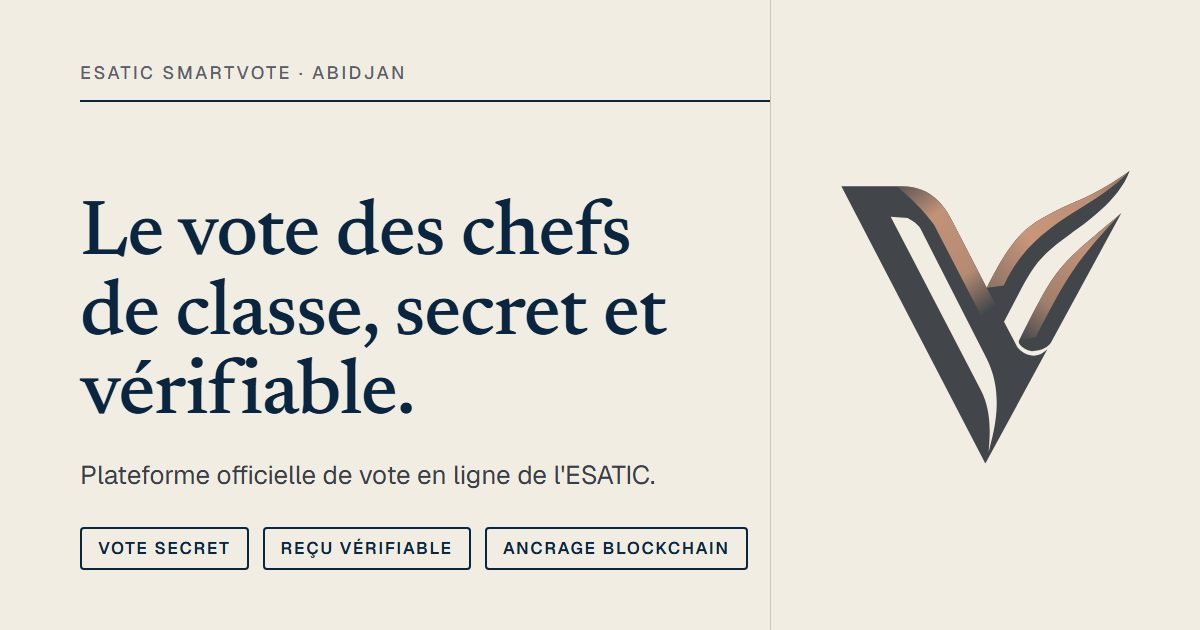
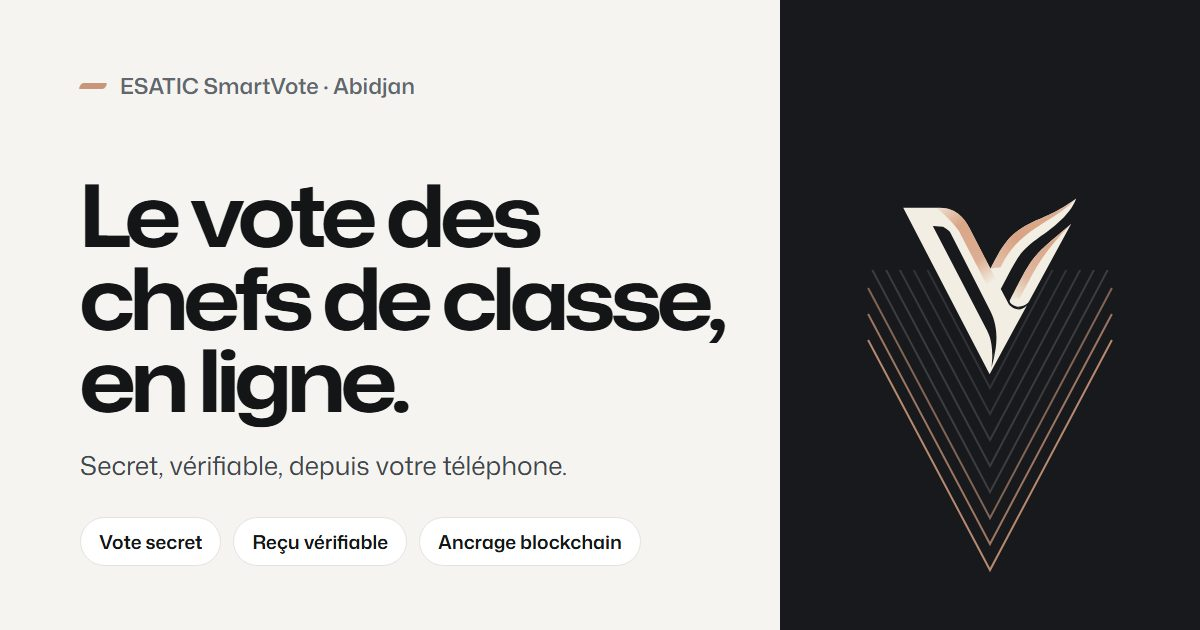
feat(brand): urne 3D, image de partage, reçu PDF et e-mails en ardoise et cuivre
- Urne 3D : couvercle ardoise, plaque cuivrée frappée du logo, bulletins
  à bandeau cuivre ; image fixe régénérée depuis la scène, fond transparent
  (elle s'affiche aussi sur le thème sombre).
- Image de partage refaite en Mona Sans, logo clair sur panneau ardoise et
  chevrons.
- Reçu PDF et bandeau des e-mails : ardoise au lieu du marine.

diff --git a/frontend/src/components/three/BallotBoxScene.tsx b/frontend/src/components/three/BallotBoxScene.tsx
@@ -45,10 +45,12 @@ import {
 import { RoundedBoxGeometry } from "three/examples/jsm/geometries/RoundedBoxGeometry.js";
 import { RoomEnvironment } from "three/examples/jsm/environments/RoomEnvironment.js";
 
+import { LOGO_HEIGHT, LOGO_SILHOUETTE, LOGO_WIDTH } from "@/components/logoGeometry";
 import { prefersReducedMotion } from "@/lib/motion";
 
-const NAVY = "#0a2540";
-const ORANGE = "#ff7a00";
+// Couleurs du logo : ardoise et cuivre.
+const SLATE = "#1f2226";
+const COPPER = "#c9967a";
 const BALLOT_COUNT = 5;
 const CYCLE = 5.2; // secondes entre deux passages d'un même bulletin
 // Instant de l'animation figé dans l'image fixe (src/assets/hero-urne-*.webp).
@@ -73,7 +75,7 @@ function restRotation(t: number) {
   return -0.35 + Math.sin(t * 0.25) * 0.05;
 }
 
-/** Bulletin : papier blanc, bandeau orange, cases à cocher dont une marquée. */
+/** Bulletin : papier blanc, bandeau cuivre, cases à cocher dont une marquée. */
 function ballotTexture(): CanvasTexture {
   const c = document.createElement("canvas");
   c.width = 256;
@@ -81,7 +83,7 @@ function ballotTexture(): CanvasTexture {
   const g = c.getContext("2d")!;
   g.fillStyle = "#ffffff";
   g.fillRect(0, 0, c.width, c.height);
-  g.fillStyle = ORANGE;
+  g.fillStyle = COPPER;
   g.fillRect(0, 0, c.width, 34);
   g.fillStyle = "#e4e4e7";
   for (let i = 0; i < 4; i++) {
@@ -93,7 +95,7 @@ function ballotTexture(): CanvasTexture {
     g.fillRect(80, y + 22, 90, 6);
   }
   // Une seule case cochée : le choix, anonyme.
-  g.strokeStyle = NAVY;
+  g.strokeStyle = SLATE;
   g.lineWidth = 7;
   g.lineCap = "round";
   g.beginPath();
@@ -113,11 +115,30 @@ function shadowTexture(): CanvasTexture {
   c.width = c.height = 128;
   const g = c.getContext("2d")!;
   const grad = g.createRadialGradient(64, 64, 4, 64, 64, 64);
-  grad.addColorStop(0, "rgba(10,37,64,0.35)");
-  grad.addColorStop(1, "rgba(10,37,64,0)");
+  grad.addColorStop(0, "rgba(19,21,23,0.32)");
+  grad.addColorStop(1, "rgba(19,21,23,0)");
   g.fillStyle = grad;
   g.fillRect(0, 0, 128, 128);
   return new CanvasTexture(c);
+}
+
+/** Plaque frontale : le V du logo, en ardoise sur cuivre. */
+function plateTexture(): CanvasTexture {
+  const c = document.createElement("canvas");
+  c.width = 512;
+  c.height = 194;
+  const g = c.getContext("2d")!;
+  g.fillStyle = COPPER;
+  g.fillRect(0, 0, c.width, c.height);
+  const scale = (c.height * 0.62) / LOGO_HEIGHT;
+  g.translate((c.width - LOGO_WIDTH * scale) / 2, (c.height - LOGO_HEIGHT * scale) / 2);
+  g.scale(scale, scale);
+  g.fillStyle = SLATE;
+  g.fill(new Path2D(LOGO_SILHOUETTE), "evenodd");
+  const t = new CanvasTexture(c);
+  t.colorSpace = SRGBColorSpace;
+  t.anisotropy = 4;
+  return t;
 }
 
 export default function BallotBoxScene({
@@ -167,12 +188,12 @@ export default function BallotBoxScene({
     const rig = new Group();
     scene.add(rig);
 
-    // Urne : parois de verre, couvercle marine percé d'une fente.
+    // Urne : parois de verre, couvercle ardoise percé d'une fente.
     const W = 2.4, H = 1.9, D = 1.7;
     const glass = new Mesh(
       new RoundedBoxGeometry(W, H, D, 4, 0.12),
       new MeshPhysicalMaterial({
-        color: new Color("#f4f8ff"),
+        color: new Color("#f6f5f2"),
         roughness: 0.04,
         metalness: 0,
         transmission: 1,
@@ -192,29 +213,29 @@ export default function BallotBoxScene({
     // Arêtes discrètes : sans elles, le verre clair se perd dans le fond blanc.
     const edges = new LineSegments(
       new EdgesGeometry(new BoxGeometry(W - 0.02, H - 0.02, D - 0.02)),
-      new LineBasicMaterial({ color: NAVY, transparent: true, opacity: 0.28 })
+      new LineBasicMaterial({ color: SLATE, transparent: true, opacity: 0.26 })
     );
     edges.position.y = H / 2;
     rig.add(edges);
 
     const lid = new Mesh(
       new RoundedBoxGeometry(W + 0.12, 0.16, D + 0.12, 3, 0.05),
-      new MeshStandardMaterial({ color: NAVY, roughness: 0.45, metalness: 0.15 })
+      new MeshStandardMaterial({ color: SLATE, roughness: 0.42, metalness: 0.2 })
     );
     lid.position.y = H + 0.06;
     rig.add(lid);
 
     const slot = new Mesh(
       new RoundedBoxGeometry(1.1, 0.05, 0.12, 2, 0.02),
-      new MeshBasicMaterial({ color: "#020617" })
+      new MeshBasicMaterial({ color: "#0b0c0d" })
     );
     slot.position.y = H + 0.15;
     rig.add(slot);
 
-    // Plaque frontale orange.
+    // Plaque frontale cuivrée, frappée du logo.
     const plate = new Mesh(
       new RoundedBoxGeometry(0.9, 0.34, 0.03, 2, 0.04),
-      new MeshStandardMaterial({ color: ORANGE, roughness: 0.5 })
+      new MeshStandardMaterial({ map: plateTexture(), roughness: 0.38, metalness: 0.35 })
     );
     plate.position.set(0, H * 0.62, D / 2 + 0.02);
     rig.add(plate);

diff --git a/frontend/src/lib/pdfReceipt.ts b/frontend/src/lib/pdfReceipt.ts
@@ -13,10 +13,11 @@ interface BuildPdfArgs {
   voterMatricule: string;
 }
 
-const NAVY: [number, number, number] = [10, 37, 64];
-const ORANGE: [number, number, number] = [255, 122, 0];
-const INK_500: [number, number, number] = [100, 116, 139];
-const INK_700: [number, number, number] = [51, 65, 85];
+// Ardoise et cuivre du logo.
+const NAVY: [number, number, number] = [23, 25, 28];
+const ORANGE: [number, number, number] = [168, 112, 79];
+const INK_500: [number, number, number] = [98, 103, 110];
+const INK_700: [number, number, number] = [65, 70, 76];
 
 export function buildVoteReceiptPdf({
   receipt,

diff --git a/backend/app/services/email_service.py b/backend/app/services/email_service.py
@@ -35,7 +35,7 @@ def _brand_header(title: str) -> str:
     clients mail ignorent le SVG en ligne. Bloquée, l'image laisse l'intitulé.
     """
     return f"""
-        <div style="background:#0A2540;color:white;padding:14px 20px;border-radius:12px;
+        <div style="background:#17191C;color:white;padding:14px 20px;border-radius:12px;
                     margin:-32px -32px 24px;font-weight:600;font-size:16px;letter-spacing:-0.02em">
           <img src="{_esc(settings.FRONTEND_URL)}/brand/logo-email.png" width="22" height="22" alt=""
                style="vertical-align:middle;margin:-3px 10px 0 0;border:0">{_esc(title)}
@@ -103,10 +103,10 @@ def _build_receipt_html(
     chain_block = ""
     if tx_hash:
         chain_block = f"""
-        <tr><td style="color:#64748B;padding:6px 0;width:140px">Hash transaction</td>
-            <td style="font-family:monospace;color:#0A2540;word-break:break-all">{_esc(tx_hash)}</td></tr>
-        <tr><td style="color:#64748B;padding:6px 0">Bloc</td>
-            <td style="font-family:monospace;color:#0A2540">#{block_number:,}</td></tr>
+        <tr><td style="color:#62676E;padding:6px 0;width:140px">Hash transaction</td>
+            <td style="font-family:monospace;color:#17191C;word-break:break-all">{_esc(tx_hash)}</td></tr>
+        <tr><td style="color:#62676E;padding:6px 0">Bloc</td>
+            <td style="font-family:monospace;color:#17191C">#{block_number:,}</td></tr>
         <tr><td colspan="2" style="padding-top:14px">
             <a href="{_esc(explorer_base)}/tx/{_esc(tx_hash)}"
                style="display:inline-block;padding:8px 14px;background:#FF7A00;color:white;
@@ -118,13 +118,13 @@ def _build_receipt_html(
 
     return f"""
     <div style="font-family:-apple-system,Inter,sans-serif;max-width:560px;margin:0 auto;
-                color:#0F172A;background:#F7F8FA;padding:32px">
-      <div style="background:white;border-radius:16px;padding:32px;border:1px solid #E5E8EE">
+                color:#131517;background:#F5F4F1;padding:32px">
+      <div style="background:white;border-radius:16px;padding:32px;border:1px solid #E4E2DD">
         {_brand_header('ESATIC SmartVote, reçu de vote')}
-        <h1 style="font-size:22px;margin:0 0 8px;color:#0A2540;letter-spacing:-0.025em">
+        <h1 style="font-size:22px;margin:0 0 8px;color:#17191C;letter-spacing:-0.025em">
           Votre vote a été enregistré.
         </h1>
-        <p style="color:#334155;line-height:1.6;font-size:14px">
+        <p style="color:#41464C;line-height:1.6;font-size:14px">
           Bonjour {_esc(voter_name)}, votre bulletin dans l'élection
           « {_esc(election_title)} » est enregistré.
           {"Il est scellé sur la blockchain." if tx_hash else
@@ -132,15 +132,15 @@ def _build_receipt_html(
         </p>
 
         <table style="width:100%;border-collapse:collapse;margin-top:20px;font-size:13px">
-          <tr><td style="color:#64748B;padding:6px 0;width:140px">Hash de vote</td>
-              <td style="font-family:monospace;color:#0A2540;word-break:break-all">{_esc(vote_hash)}</td></tr>
-          <tr><td style="color:#64748B;padding:6px 0">Horodatage</td>
-              <td style="font-family:monospace;color:#0A2540">{created_at.isoformat(sep=" ", timespec="seconds")} UTC</td></tr>
+          <tr><td style="color:#62676E;padding:6px 0;width:140px">Hash de vote</td>
+              <td style="font-family:monospace;color:#17191C;word-break:break-all">{_esc(vote_hash)}</td></tr>
+          <tr><td style="color:#62676E;padding:6px 0">Horodatage</td>
+              <td style="font-family:monospace;color:#17191C">{created_at.isoformat(sep=" ", timespec="seconds")} UTC</td></tr>
           {chain_block}
         </table>
 
         <p style="color:#94A3B8;font-size:11px;line-height:1.5;margin-top:24px;
-                  border-top:1px solid #E5E8EE;padding-top:16px">
+                  border-top:1px solid #E4E2DD;padding-top:16px">
           Pour des raisons d'anonymat, le contenu de votre bulletin n'est pas révélé dans ce reçu.
           Seule la preuve d'enregistrement on-chain est confirmée.
         </p>
@@ -163,11 +163,11 @@ async def send_password_reset_email(
 
     html = f"""
     <div style="font-family:-apple-system,Inter,sans-serif;max-width:520px;margin:0 auto;
-                color:#0F172A;background:#F7F8FA;padding:32px">
-      <div style="background:white;border-radius:16px;padding:32px;border:1px solid #E5E8EE">
+                color:#131517;background:#F5F4F1;padding:32px">
+      <div style="background:white;border-radius:16px;padding:32px;border:1px solid #E4E2DD">
         {_brand_header('ESATIC SmartVote, réinitialisation du mot de passe')}
-        <h1 style="font-size:22px;margin:0 0 8px;color:#0A2540">Bonjour {_esc(voter_name)},</h1>
-        <p style="color:#334155;line-height:1.6;font-size:14px">
+        <h1 style="font-size:22px;margin:0 0 8px;color:#17191C">Bonjour {_esc(voter_name)},</h1>
+        <p style="color:#41464C;line-height:1.6;font-size:14px">
           Tu as demandé à réinitialiser ton mot de passe SmartVote. Clique sur le bouton
           ci-dessous pour choisir un nouveau mot de passe. Ce lien expire dans
           <strong>30 minutes</strong>.
@@ -179,7 +179,7 @@ async def send_password_reset_email(
             Réinitialiser mon mot de passe
           </a>
         </p>
-        <p style="color:#94A3B8;font-size:11px;margin-top:24px;border-top:1px solid #E5E8EE;
+        <p style="color:#94A3B8;font-size:11px;margin-top:24px;border-top:1px solid #E4E2DD;
                   padding-top:16px;line-height:1.5">
           Si tu n'es pas à l'origine de cette demande, ignore cet e-mail : ton mot de passe
           ne sera pas changé.
@@ -265,25 +265,25 @@ async def send_activation_code_email(
 
     html = f"""
     <div style="font-family:-apple-system,Inter,sans-serif;max-width:520px;margin:0 auto;
-                color:#0F172A;background:#F7F8FA;padding:32px">
-      <div style="background:white;border-radius:16px;padding:32px;border:1px solid #E5E8EE">
+                color:#131517;background:#F5F4F1;padding:32px">
+      <div style="background:white;border-radius:16px;padding:32px;border:1px solid #E4E2DD">
         {_brand_header('ESATIC SmartVote, activation du compte')}
-        <h1 style="font-size:22px;margin:0 0 8px;color:#0A2540">Bonjour {_esc(voter_name)},</h1>
-        <p style="color:#334155;line-height:1.6;font-size:14px">
+        <h1 style="font-size:22px;margin:0 0 8px;color:#17191C">Bonjour {_esc(voter_name)},</h1>
+        <p style="color:#41464C;line-height:1.6;font-size:14px">
           Ton compte SmartVote a été pré-créé par l'administration. Voici ton code d'activation
           secret pour finaliser ton inscription :
         </p>
         <div style="margin:20px 0;text-align:center">
-          <span style="display:inline-block;padding:14px 28px;background:#F1F5F9;color:#0F172A;
+          <span style="display:inline-block;padding:14px 28px;background:#F1F5F9;color:#131517;
                        border-radius:10px;font-weight:700;font-size:24px;letter-spacing:4px;
                        border:1px solid #CBD5E1">
             {_esc(activation_code)}
           </span>
         </div>
-        <p style="color:#334155;line-height:1.6;font-size:14px">
+        <p style="color:#41464C;line-height:1.6;font-size:14px">
           Rends-toi sur la page d'activation et saisis ton matricule, ton nom et ce code.
         </p>
-        <p style="color:#94A3B8;font-size:11px;margin-top:24px;border-top:1px solid #E5E8EE;
+        <p style="color:#94A3B8;font-size:11px;margin-top:24px;border-top:1px solid #E4E2DD;
                   padding-top:16px;line-height:1.5">
           Si tu n'es pas étudiant à l'ESATIC, ignore cet email.
         </p>
@@ -324,14 +324,14 @@ async def send_account_activated_email(*, to_email: str, student_name: str) -> N
 
     html = f"""
     <div style="font-family:-apple-system,Inter,sans-serif;max-width:520px;margin:0 auto;
-                color:#0F172A;background:#F7F8FA;padding:32px">
-      <div style="background:white;border-radius:16px;padding:32px;border:1px solid #E5E8EE">
+                color:#131517;background:#F5F4F1;padding:32px">
+      <div style="background:white;border-radius:16px;padding:32px;border:1px solid #E4E2DD">
         {_brand_header('ESATIC SmartVote, compte autorisé')}
-        <h1 style="font-size:22px;margin:0 0 8px;color:#0A2540">Bonjour {_esc(student_name)},</h1>
-        <p style="color:#334155;line-height:1.6;font-size:14px">
+        <h1 style="font-size:22px;margin:0 0 8px;color:#17191C">Bonjour {_esc(student_name)},</h1>
+        <p style="color:#41464C;line-height:1.6;font-size:14px">
           Ton identité a été vérifiée par l'administration : ton compte SmartVote est ouvert.
         </p>
-        <p style="color:#334155;line-height:1.6;font-size:14px">
+        <p style="color:#41464C;line-height:1.6;font-size:14px">
           Connecte-toi avec ton matricule et le mot de passe que tu as choisi lors de ta demande.
         </p>
         <p style="margin-top:20px">
@@ -390,8 +390,8 @@ async def _send(kind: str, *, to_email: str, subject: str, html: str) -> None:
 def _layout(title: str, body: str) -> str:
     return f"""
     <div style="font-family:-apple-system,Inter,sans-serif;max-width:520px;margin:0 auto;
-                color:#0F172A;background:#F7F8FA;padding:32px">
-      <div style="background:white;border-radius:16px;padding:32px;border:1px solid #E5E8EE">
+                color:#131517;background:#F5F4F1;padding:32px">
+      <div style="background:white;border-radius:16px;padding:32px;border:1px solid #E4E2DD">
         {_brand_header(title)}
         {body}
       </div>
@@ -404,20 +404,20 @@ async def send_email_confirmation_email(*, to_email: str, student_name: str, con
     html = _layout(
         "ESATIC SmartVote, confirmation de votre adresse",
         f"""
-        <h1 style="font-size:22px;margin:0 0 8px;color:#0A2540">Bonjour {_esc(student_name)},</h1>
-        <p style="color:#334155;line-height:1.6;font-size:14px">
+        <h1 style="font-size:22px;margin:0 0 8px;color:#17191C">Bonjour {_esc(student_name)},</h1>
+        <p style="color:#41464C;line-height:1.6;font-size:14px">
           Confirmez que cette adresse vous appartient pour l'associer à votre compte SmartVote.
           Vous pourrez ensuite l'utiliser pour vous connecter avec Google et recevoir vos reçus
           de vote. Ce lien expire dans <strong>48 heures</strong>.
         </p>
         <p style="margin-top:20px">
           <a href="{_esc(confirm_url)}"
-             style="display:inline-block;padding:12px 22px;background:#0A2540;color:white;
+             style="display:inline-block;padding:12px 22px;background:#17191C;color:white;
                     text-decoration:none;border-radius:10px;font-weight:500">
             Confirmer mon adresse
           </a>
         </p>
-        <p style="color:#64748B;font-size:12px;margin-top:24px;border-top:1px solid #E5E8EE;
+        <p style="color:#62676E;font-size:12px;margin-top:24px;border-top:1px solid #E4E2DD;
                   padding-top:16px;line-height:1.5">
           Vous n'êtes pas à l'origine de cette demande ? Ignorez cet e-mail : l'adresse ne sera
           pas associée au compte.
@@ -433,12 +433,12 @@ async def send_email_changed_notice(*, to_email: str, student_name: str, new_ema
     html = _layout(
         "ESATIC SmartVote, adresse e-mail modifiée",
         f"""
-        <h1 style="font-size:22px;margin:0 0 8px;color:#0A2540">Bonjour {_esc(student_name)},</h1>
-        <p style="color:#334155;line-height:1.6;font-size:14px">
+        <h1 style="font-size:22px;margin:0 0 8px;color:#17191C">Bonjour {_esc(student_name)},</h1>
+        <p style="color:#41464C;line-height:1.6;font-size:14px">
           L'adresse e-mail de votre compte SmartVote vient d'être remplacée par
           <strong>{_esc(_mask(new_email))}</strong>. Cette adresse ne recevra plus de message.
         </p>
-        <p style="color:#334155;line-height:1.6;font-size:14px">
+        <p style="color:#41464C;line-height:1.6;font-size:14px">
           Si vous n'êtes pas à l'origine de ce changement, contactez l'administration de l'école
           sans attendre.
         </p>
@@ -469,20 +469,20 @@ async def send_vote_reminder_email(
     html = _layout(
         "ESATIC SmartVote, rappel de scrutin",
         f"""
-        <h1 style="font-size:22px;margin:0 0 8px;color:#0A2540">Bonjour {_esc(voter_name)},</h1>
-        <p style="color:#334155;line-height:1.6;font-size:14px">
+        <h1 style="font-size:22px;margin:0 0 8px;color:#17191C">Bonjour {_esc(voter_name)},</h1>
+        <p style="color:#41464C;line-height:1.6;font-size:14px">
           Le scrutin « {_esc(election_title)} » ferme le
           <strong>{_esc(_french_datetime(ends_at))}</strong> (heure d'Abidjan), et votre
           bulletin n'est pas encore dans l'urne. Voter prend moins d'une minute.
         </p>
         <p style="margin-top:20px">
           <a href="{_esc(vote_url)}"
-             style="display:inline-block;padding:12px 22px;background:#0A2540;color:white;
+             style="display:inline-block;padding:12px 22px;background:#17191C;color:white;
                     text-decoration:none;border-radius:10px;font-weight:500">
             Voter maintenant
           </a>
         </p>
-        <p style="color:#64748B;font-size:12px;margin-top:24px;border-top:1px solid #E5E8EE;
+        <p style="color:#62676E;font-size:12px;margin-top:24px;border-top:1px solid #E4E2DD;
                   padding-top:16px;line-height:1.5">
           Vous recevez ce rappel une seule fois par scrutin. Votre choix reste secret :
           personne, administration comprise, ne voit pour qui vous votez.
